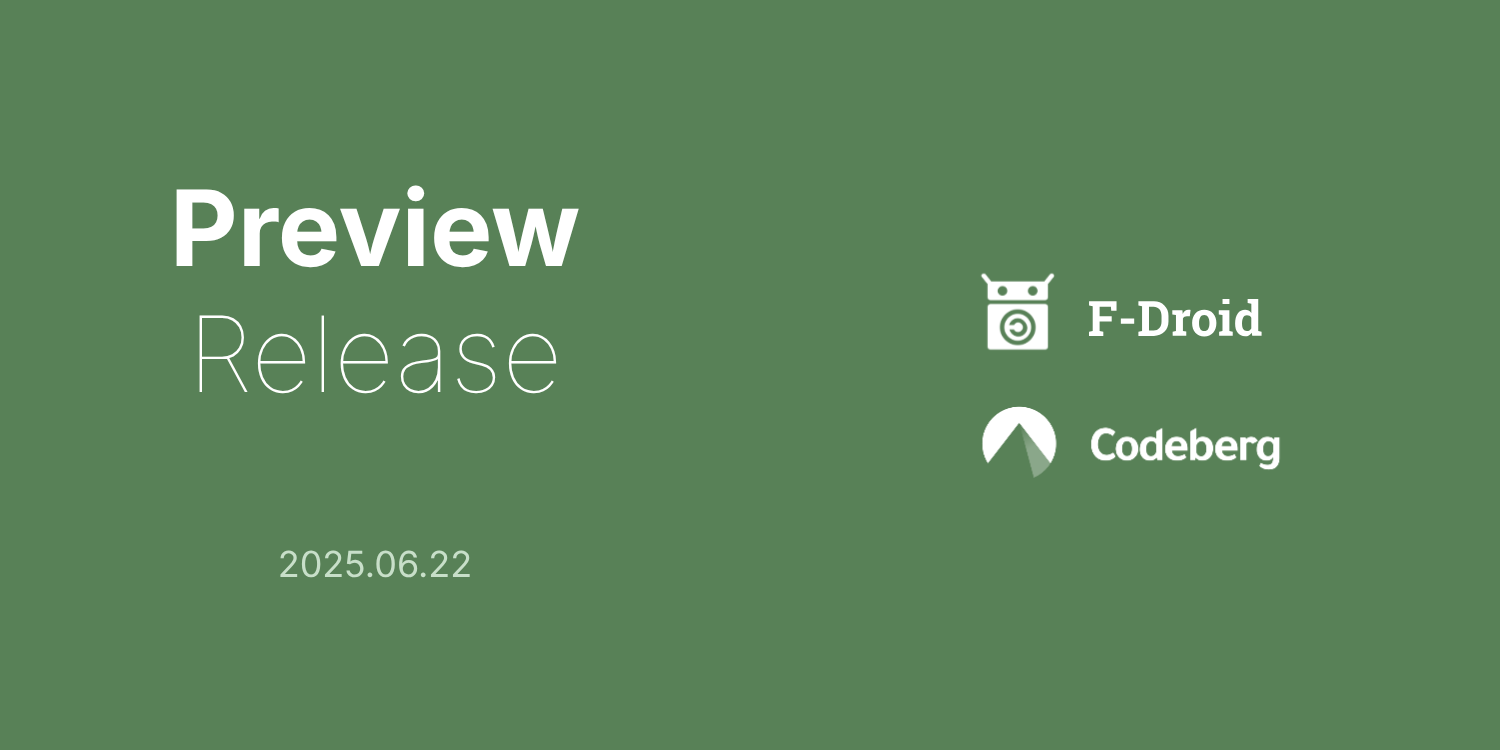
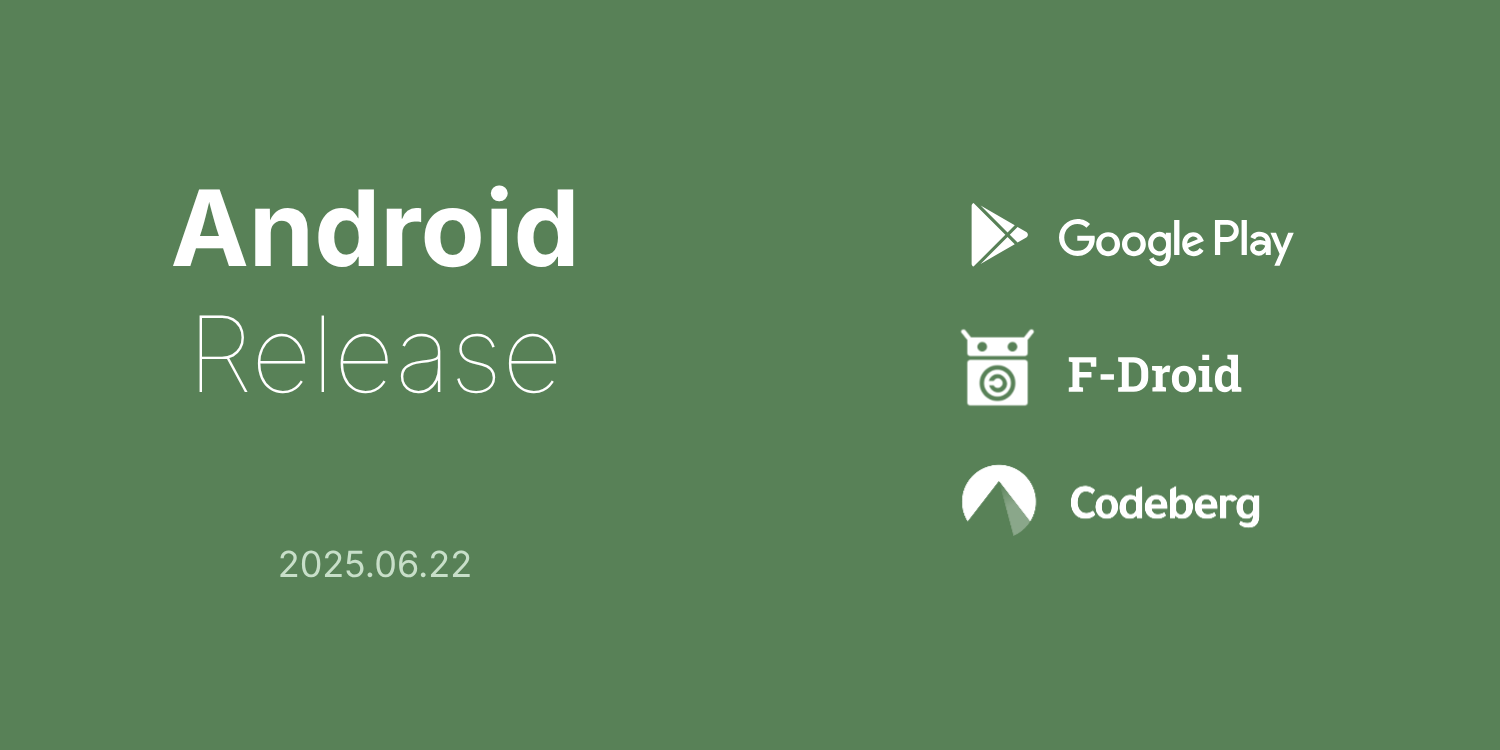
Updates to News Release notes (#346)
Updates to News Release notes

Co-committed-by: oleg-rswll <oleg-rswll@noreply.codeberg.org>

Changed region(s): [[0.644, 0.276, 0.8587, 0.7053], [0.092, 0.2453, 0.3987, 0.368]]

diff --git a/content/news/2025-06-22/1/index.md b/content/news/2025-06-22/1/index.md
@@ -1,5 +1,5 @@
 ---
-title: "Release 2025.06.22 is out - Rework of the map colors and more..."
+title: "Android Release 2025.06.22 is out - Rework of the map colors and more..."
 description: 
 date: 2025-06-22T09:00:00-00:00
 slug: "Release-2025.06.22-is-out-Rework-of-the-map-colors-and-more"
@@ -9,7 +9,7 @@ taxonomies:
 
 Available on:
 
-[Google Play](https://play.google.com/store/apps/details?id=app.comaps.google) • [App Store](https://apps.apple.com/app/comaps/id6747180809) • [Codeberg](https://codeberg.org/comaps/comaps/releases/tag/2025.06.30-22-android) • [F-Droid](https://f-droid.org/packages/app.comaps.fdroid/)
+[Google Play](https://play.google.com/store/apps/details?id=app.comaps.google) • [Codeberg](https://codeberg.org/comaps/comaps/releases/tag/2025.06.22-5-android) • [F-Droid](https://f-droid.org/packages/app.comaps.fdroid/)
 
 
 A big rework of the map colors - lighter, warmer, friendlier! (by @yannikbloscheck)

diff --git a/content/news/2025-06-30/2/index.md b/content/news/2025-06-30/2/index.md
@@ -1,5 +1,5 @@
 ---
-title: "Preview Release 2025.06.30 release is out!"
+title: "CoMaps Release 2025.06.30 is out!"
 description: 
 date: 2025-06-30T09:00:00-00:00
 slug: "2025.06.30-release-is-out"
